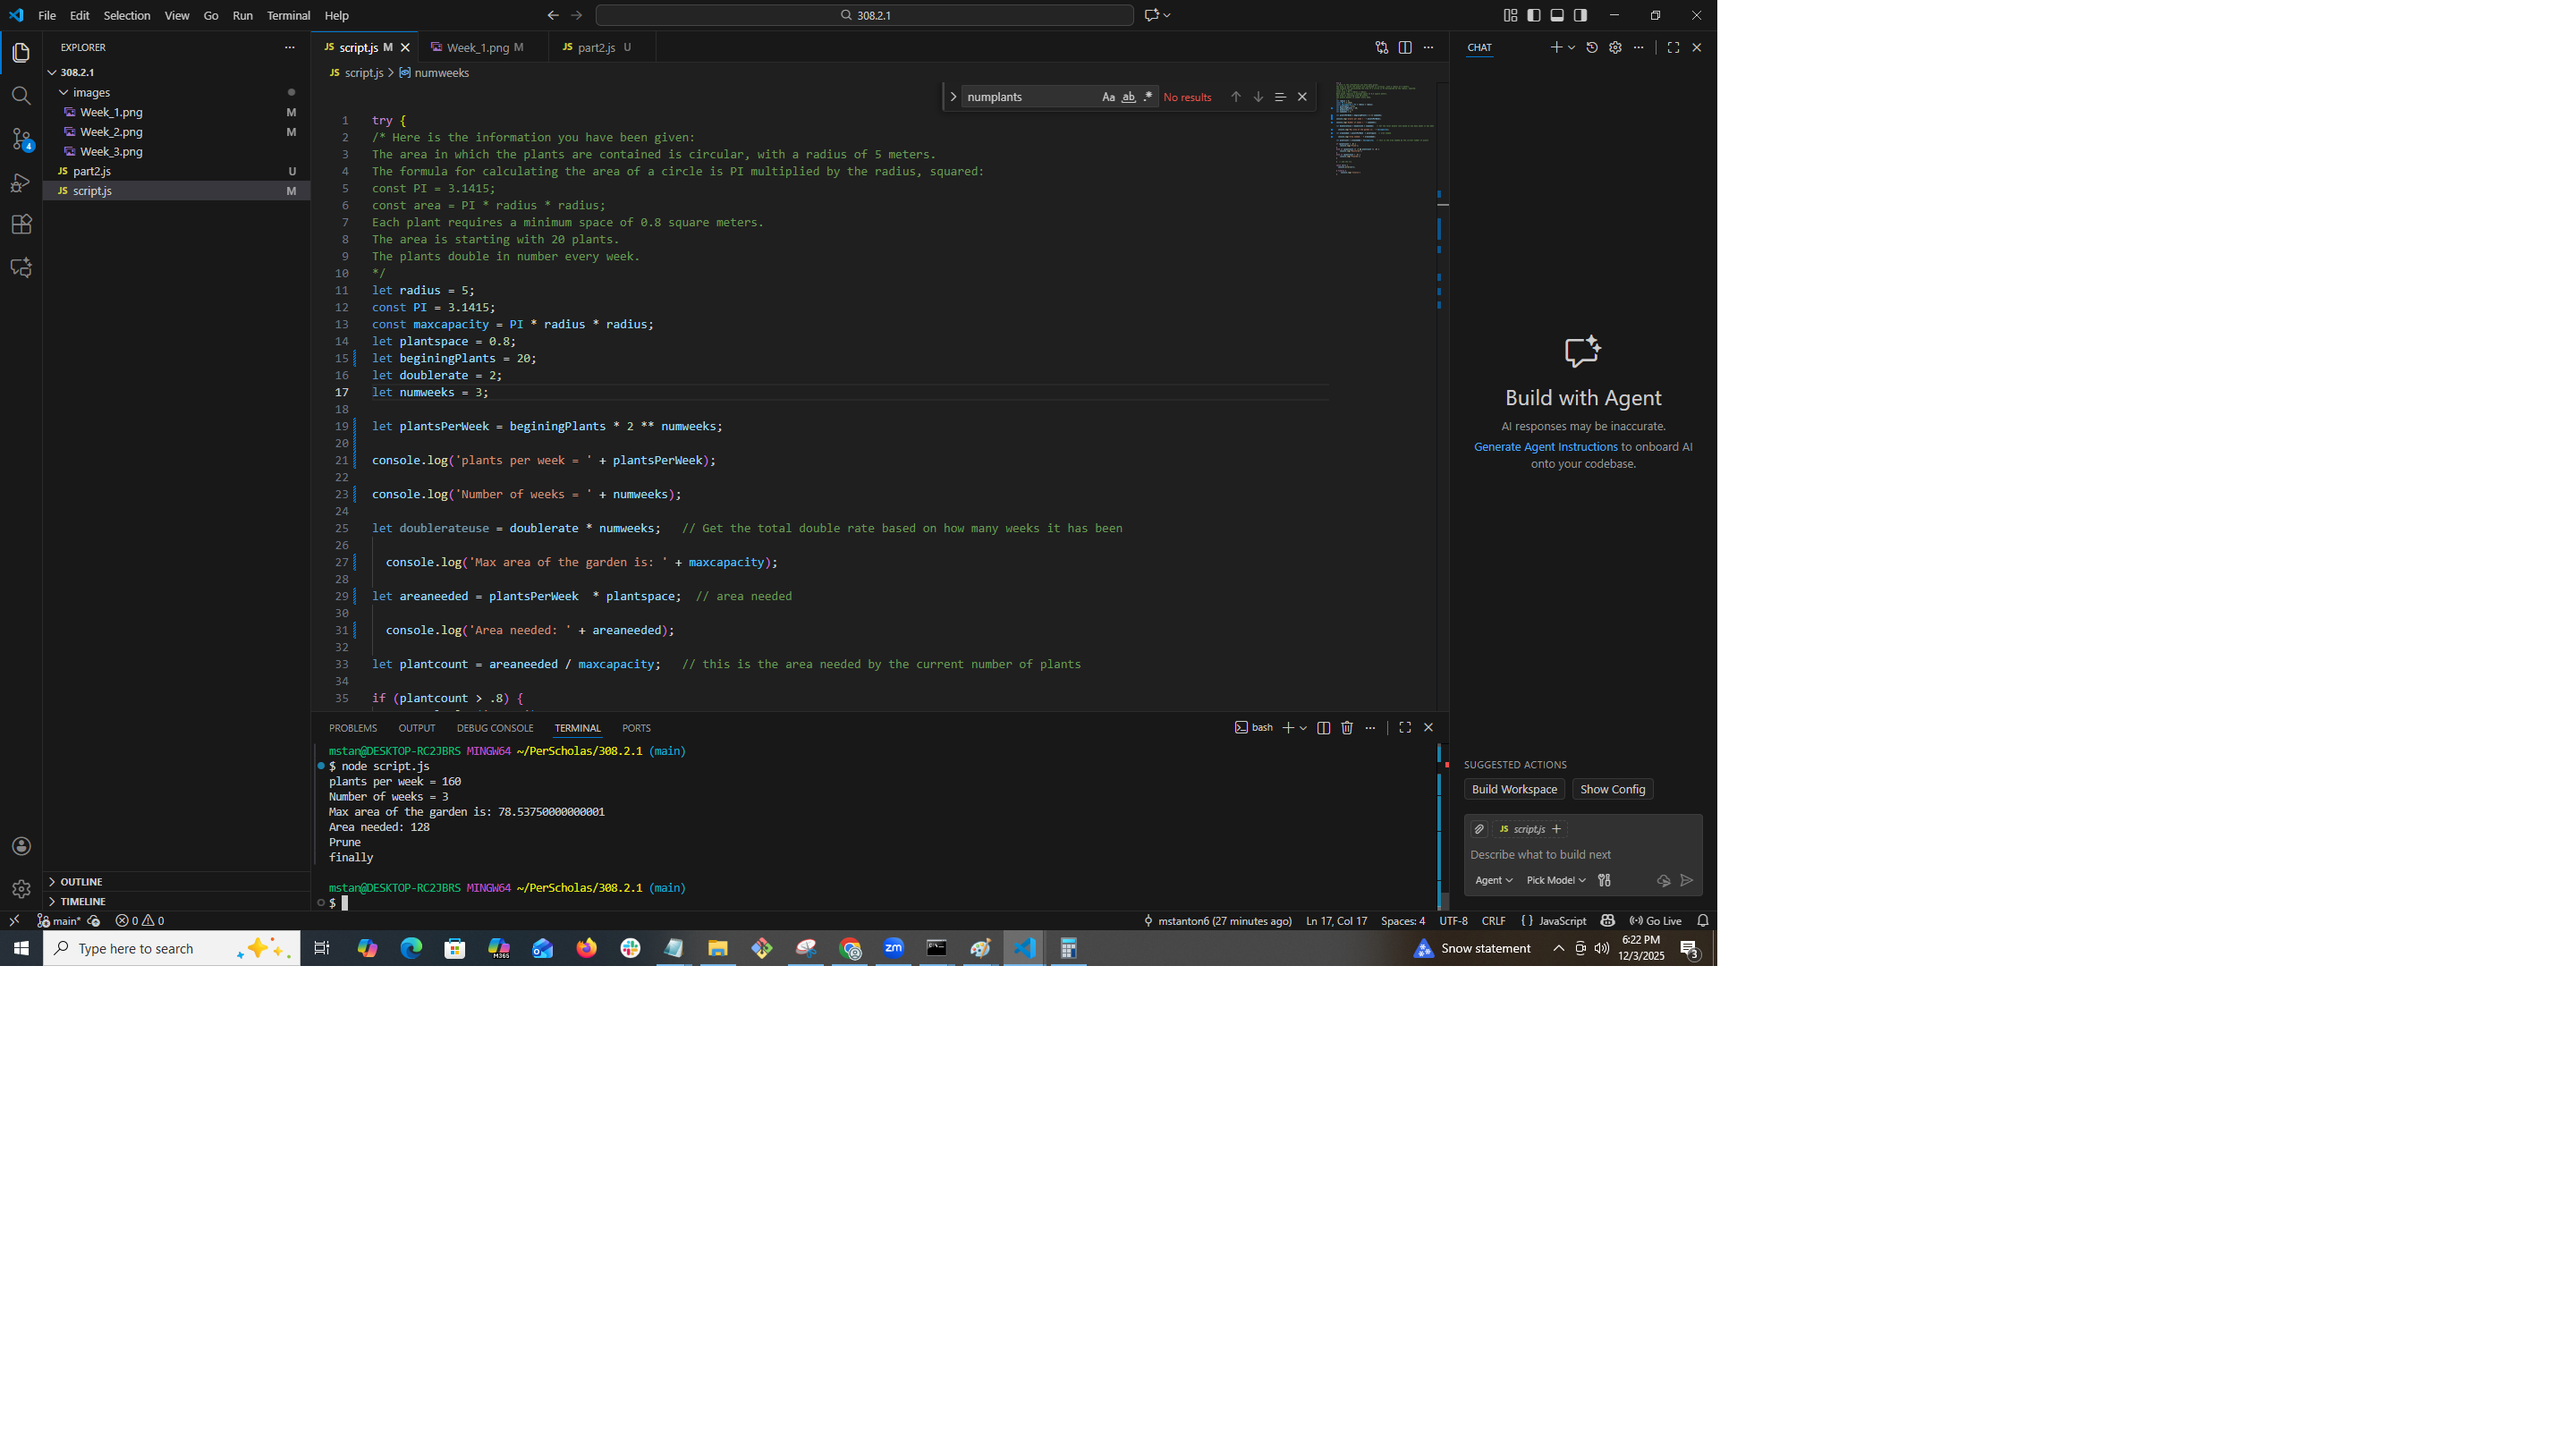
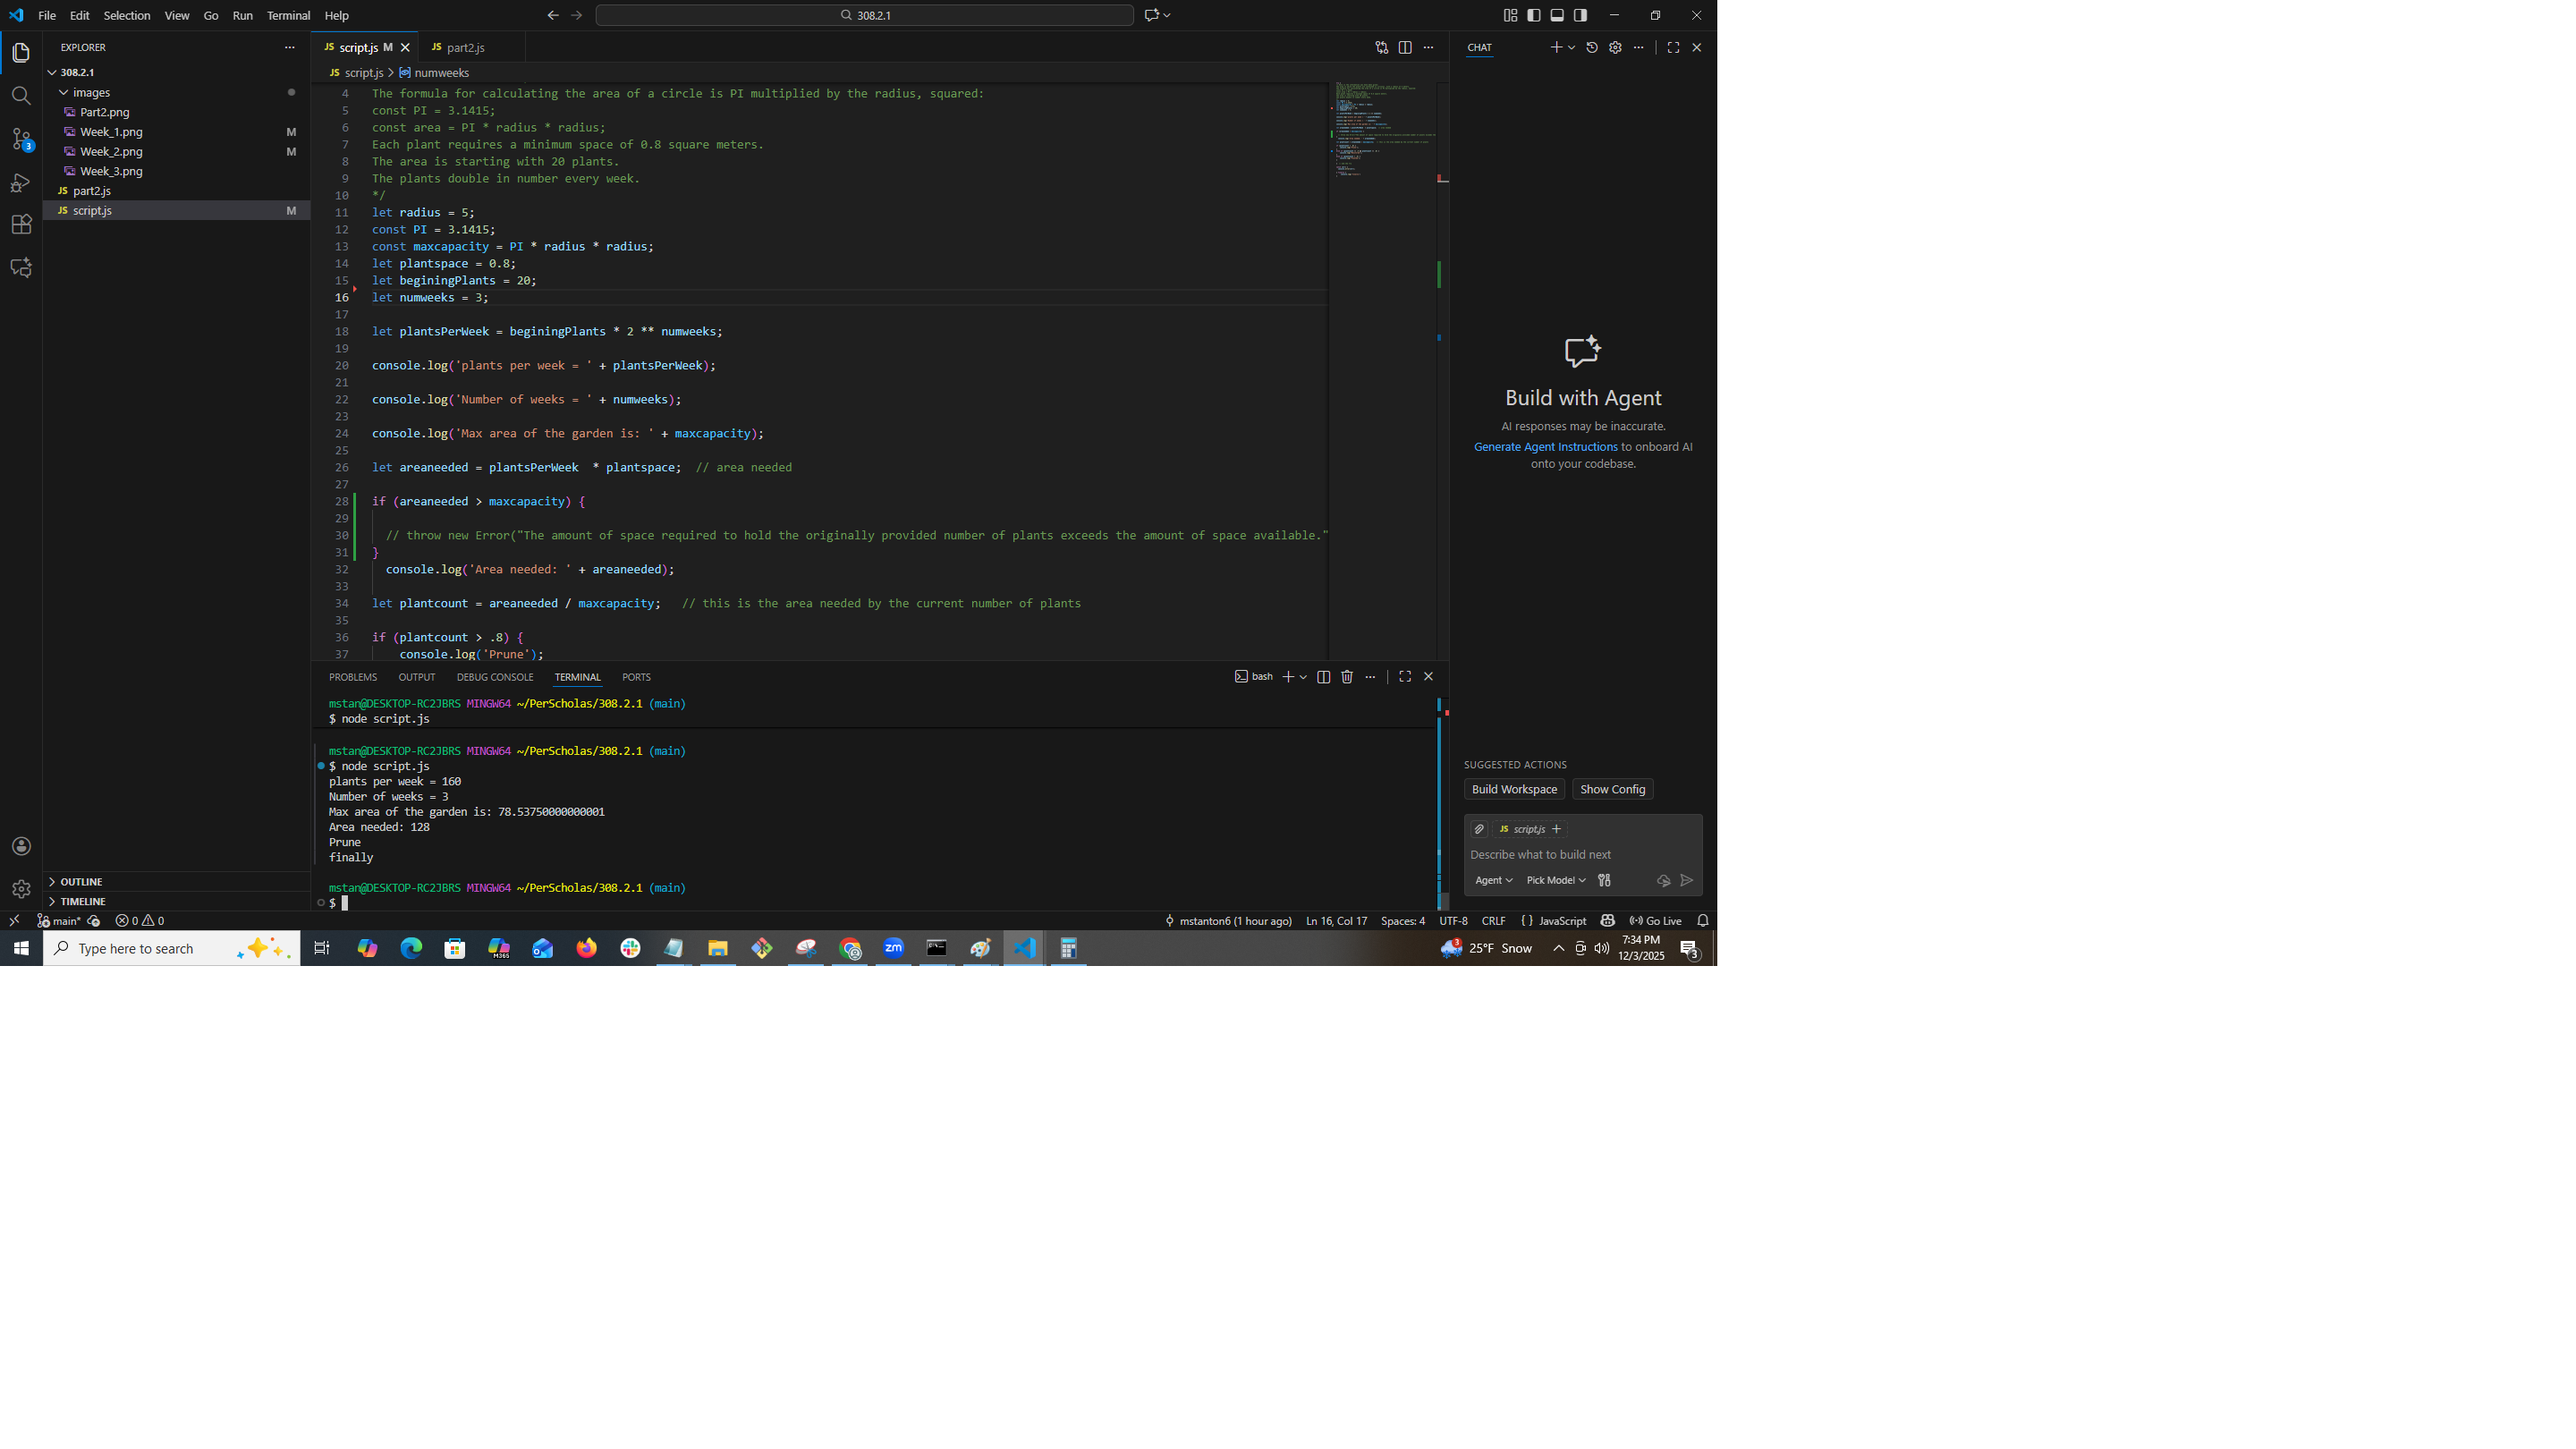
Done with part 3.

diff --git a/script.js b/script.js
@@ -13,8 +13,7 @@ const PI = 3.1415;
 const maxcapacity = PI * radius * radius;
 let plantspace = 0.8;
 let beginingPlants = 20;
-let doublerate = 2;
-let numweeks = 3;
+let numweeks = 2;
 
 let plantsPerWeek = beginingPlants * 2 ** numweeks;
 
@@ -26,6 +25,10 @@ console.log('Max area of the garden is: ' + maxcapacity);
 
 let areaneeded = plantsPerWeek  * plantspace;  // area needed
 
+if (areaneeded > maxcapacity) {
+
+   throw new Error("The amount of space required to hold the originally provided number of plants exceeds the amount of space available.");
+}
   console.log('Area needed: ' + areaneeded);
 
 let plantcount = areaneeded / maxcapacity;   // this is the area needed by the current number of plants
@@ -33,7 +36,7 @@ let plantcount = areaneeded / maxcapacity;   // this is the area needed by the c
 if (plantcount > .8) {
     console.log('Prune');
 }
-else if (plantcount <= .5 && plantcount <= .8) {
+else if (plantcount >= .5 && plantcount <= .8) {
     console.log('Monitored');
 }
 else if (plantcount < .5) {
